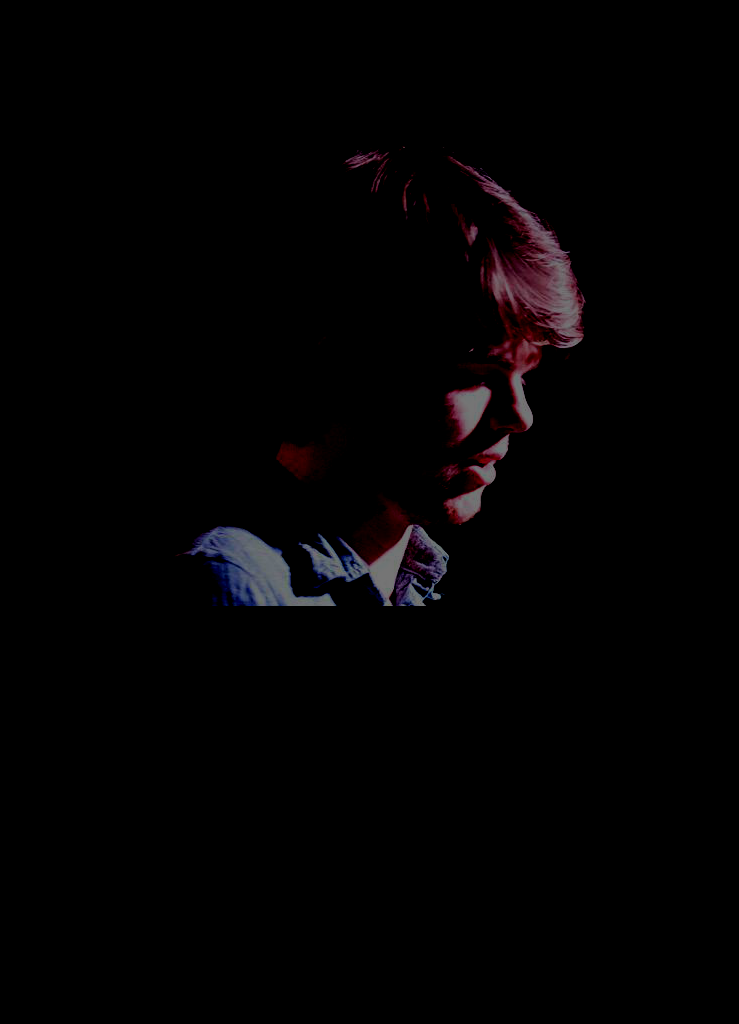
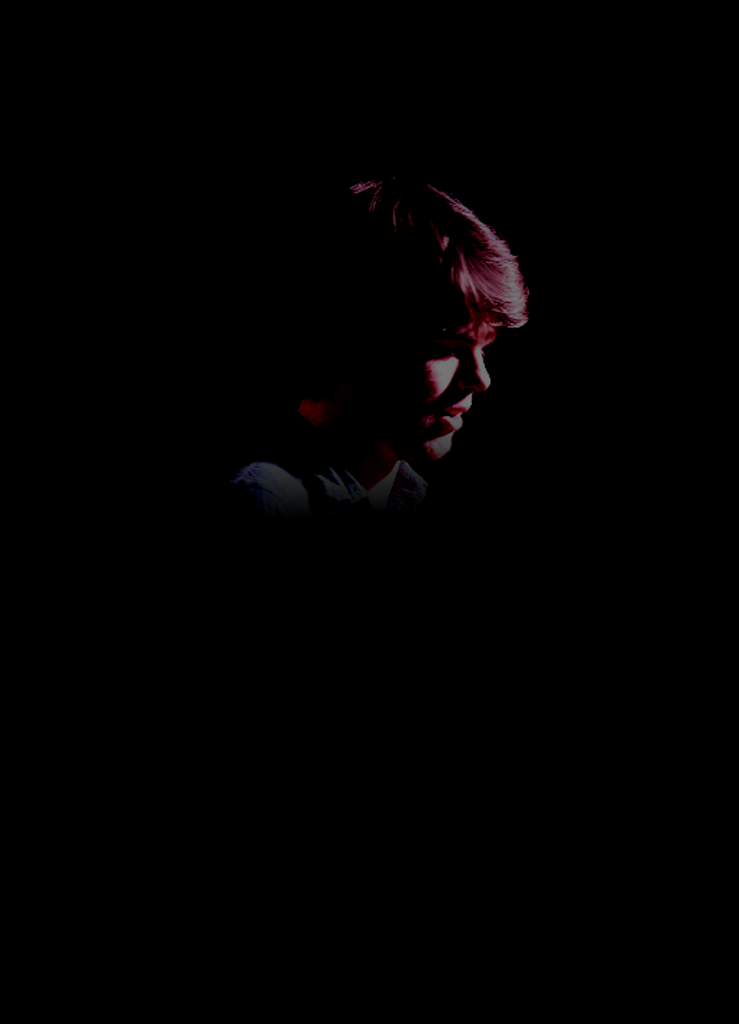
Imagespace images now responsive

Changed region(s): [[0.249, 0.1562, 0.8092, 0.5938], [0.4668, 0.125, 0.5602, 0.2188]]

diff --git a/src/browser/components/imagespace/imagespace.js b/src/browser/components/imagespace/imagespace.js
@@ -1,28 +1,91 @@
-import React from 'react';
+import React, { Component } from 'react';
 import PropTypes from 'prop-types';
 import classNames from 'classnames';
 
-const Imagespace = ({ background, backgroundColour, children }) => {
-
-    const imagespaceBackground = {
-        backgroundImage: `url(${background})`,
-    };
-
-    const imagespaceColour = {
-        backgroundColor: `#${backgroundColour}`,
+class Imagespace extends Component {
+    constructor(props) {
+        super(props);
+        this.handleResize = this.handleResize.bind(this);
+        this.state = {
+            isMobile: true,
+            isTablet: false,
+            isDesktop: false,
+        };
     }
 
-    return (
-        <div className="imagespace-wrapper">
-            <div className="imagespace" style={imagespaceColour}>
-                <div className="imagespace__background" style={imagespaceBackground}>
-                    <div className="imagespace__content text-center">
-                        {children}
+    componentDidMount() {
+        window.addEventListener('resize', this.handleResize);
+    }
+
+    componentWillUnmount() {
+        window.removeEventListener('resize', this.handleResize);
+    }
+
+    handleResize() {
+        const { isMobile, isTablet, isDesktop } = this.state;
+        const browserWidth = window.innerWidth;
+
+        if (browserWidth < 739) {
+            this.setState({ isMobile: true });
+            this.setState({ isTablet: false });
+            this.setState({ isDesktop: false });
+        };
+
+        if ((browserWidth > 739) && (browserWidth < 1024)) {
+            this.setState({ isMobile: false });
+            this.setState({ isTablet: true });
+            this.setState({ isDesktop: false });
+        };
+
+        if (browserWidth >= 1024) {
+            this.setState({ isMobile: false });
+            this.setState({ isTablet: false });
+            this.setState({ isDesktop: true });
+        };
+    }
+
+    render() {
+        const {
+            imageSet,
+            backgroundColour,
+            children,
+        } = this.props;
+
+        let { isMobile, isTablet, isDesktop } = this.state;
+        let image;
+
+        const imagespaceColour = {
+            backgroundColor: `#${backgroundColour}`,
+        }
+
+        if (isMobile) {
+            image = imageSet.mobileImage
+        };
+
+        if (isTablet) {
+            image = imageSet.tabletImage
+        };
+
+        if (isDesktop) {
+            image = imageSet.desktopImage
+        };
+
+        const imagespaceBackground = {
+            backgroundImage: `url(${image})`
+        }
+
+        return (
+            <div className="imagespace-wrapper">
+                <div className="imagespace" style={imagespaceColour}>
+                    <div className="imagespace__background" style={imagespaceBackground}>
+                        <div className="imagespace__content text-center">
+                            {children}
+                        </div>
                     </div>
                 </div>
             </div>
-        </div>
-    );
+        );
+    }
 };
 
 Imagespace.defaultProps = {

diff --git a/src/browser/pages/landing-page/landingPage.js b/src/browser/pages/landing-page/landingPage.js
@@ -5,6 +5,12 @@ import Description from '../../components/description/description';
 import Imagespace from '../../components/imagespace/imagespace';
 import MenuBar from '../../components/menu-bar/MenuBar';
 
+const imageSet = {
+    mobileImage: require('../../images/face-mobile.png'),
+    tabletImage: require('../../images/face-tablet.png'),
+    desktopImage: require('../../images/face-desktop.png'),
+};
+
 const LandingPage = () =>
     <div>
         <MenuBar />
@@ -12,7 +18,7 @@ const LandingPage = () =>
             <span className="menu__trigger">Menu</span>
             <span className="resume__trigger">My Resume</span>
         </div>
-        <Imagespace background={require('../../images/face-mobile.png')}>
+        <Imagespace imageSet={imageSet}>
             <h1 className="heading-medium margin-bottom-small">Stefan McCready</h1>
             <h2 className="heading-small">Designer - Developer</h2>
             <div className="icon-set">
@@ -22,28 +28,6 @@ const LandingPage = () =>
                 <Icon iconName="twitter" setItem />
              </div>
         </Imagespace>
-        <Panel modifier="alternative" isHalf>
-            <div className="container">
-                <div className="section group">
-                    <div className="col span_1_of_2">
-                        <Description 
-                            header="Who am I?"
-                            text="Im a Front End developer in Leeds, currently having fun helping Sky sell some Mobile phones and build up reusuable frameworks." />
-                    </div>
-                    <div className="col span_1_of_2">
-                        <Description
-                            header="My Belief" 
-                            text="Simplicity is bliss. I believe that we should strive to make things as simple as possible for both compony and customer." />
-                    </div>
-                </div>
-            </div>
-        </Panel>
-        <Panel isHalf>
-            <div className="text-center">
-                <h1 className="heading-medium margin-bottom-small">Want to get in touch?</h1>
-                <h2 className="heading-small">stefanmccready@oulook.com</h2>
-            </div>
-        </Panel>
     </div>;
 
 export default LandingPage;

diff --git a/src/browser/styles/scss/components/_imagespace.scss b/src/browser/styles/scss/components/_imagespace.scss
@@ -1,18 +1,20 @@
-$heroContentHeight: 500px;
-
 .imagespace-wrapper {
-  position: relative; /* [1] */
-  height: 600px; /* [2] */
-  min-height: 20em; /* [2] */
-  color: color(white); /* [3] */
-  background-position: center; /* [4] */
+  position: relative;
+  height: 60vh;
+  min-height: 20em;
+  color: color(white);
+  background-position: center;
   background-size: cover; /* [4] */
 }
 
+$imagespaceHeightDesktop: 500px;
+
 .imagespace {
     overflow: hidden;
+    height: auto;
+
     @include mq($from: tablet) {
-        height: $heroContentHeight;
+        height: $imagespaceHeightDesktop;
     }
 }
 
@@ -21,7 +23,9 @@ $heroContentHeight: 500px;
     background-repeat: no-repeat;
 
     @include mq($from: tablet) {
-        height: $heroContentHeight;
+        background-position: top center;
+        height: $imagespaceHeightDesktop;
+        background-size: 1024px;
     }
 
     @include mq($from: 1024px) {
@@ -32,7 +36,7 @@ $heroContentHeight: 500px;
 
 .imagespace__content {
     position: relative;
-    padding-top: 55%;
+    padding-top: 75%;
     padding-bottom: 30px;
     color: #fff;
 
